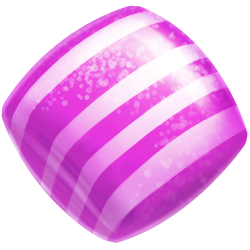
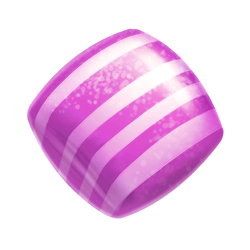
feat: refresh game assets

diff --git a/src/assets/scss/blocks/b-game-tile.scss b/src/assets/scss/blocks/b-game-tile.scss
@@ -17,6 +17,7 @@
     position: absolute;
     inset: 0;
     content: "";
+    background-image: var(--tile-overlay-background);
     background-position: center;
     background-repeat: no-repeat;
     background-size: contain;
@@ -29,13 +30,13 @@
   }
 
   &--sweets-cookie {
-    --tile-background: url("../../images/tile-sweets-cookie.png");
-    --tile-selected-background: url("../../images/tile-sweets-cookie-selected.png");
+    --tile-background: url("../../images/tile-sweets-fish.png");
+    --tile-selected-background: url("../../images/tile-sweets-fish-selected.png");
   }
 
   &--sweets-lollipop {
-    --tile-background: url("../../images/tile-sweets-lollipop.png");
-    --tile-selected-background: url("../../images/tile-sweets-lollipop-selected.png");
+    --tile-background: url("../../images/tile-sweets-rooster.png");
+    --tile-selected-background: url("../../images/tile-sweets-rooster-selected.png");
   }
 
   &--sweets-pillow {
@@ -44,13 +45,13 @@
   }
 
   &--sweets-souffle {
-    --tile-background: url("../../images/tile-sweets-souffle.png");
-    --tile-selected-background: url("../../images/tile-sweets-souffle-selected.png");
+    --tile-background: url("../../images/tile-sweets-bird.png");
+    --tile-selected-background: url("../../images/tile-sweets-bird-selected.png");
   }
 
   &--special-mug {
     --tile-background: url("../../images/tile-special-mug.png");
-    --tile-selected-background: url("../../images/tile-special-mug.png");
+    --tile-selected-background: url("../../images/tile-special-mug-selected.png");
 
     background-size: contain;
   }
@@ -64,18 +65,24 @@
 
   &--special-cookie {
     --tile-background: url("../../images/tile-special-cookie.png");
-    --tile-selected-background: url("../../images/tile-special-cookie.png");
+    --tile-selected-background: url("../../images/tile-special-cookie-selected.png");
   }
 
-  &--blocker-special-package::after {
-    background-image: url("../../images/tile-blocker-package.png");
+  &--blocker-special-package {
+    --tile-overlay-background: url("../../images/tile-blocker-package.png");
+
+    &::after {
+      inset: calc((var(--tile-size) - var(--cell-size)) / 2);
+    }
   }
 
-  &--cookie-jam-1::after {
-    background-image: url("../../images/tile-cookie-jam-1.png");
+  &--cookie-jam-1 {
+    --tile-overlay-background: url("../../images/tile-cookie-jam-1.png");
+    --tile-selected-overlay-background: url("../../images/tile-cookie-jam-1-selected.png");
   }
 
-  &--cookie-jam-2::after {
-    background-image: url("../../images/tile-cookie-jam-2.png");
+  &--cookie-jam-2 {
+    --tile-overlay-background: url("../../images/tile-cookie-jam-2.png");
+    --tile-selected-overlay-background: url("../../images/tile-cookie-jam-2-selected.png");
   }
 }

diff --git a/tests/playwright/special-tiles.spec.ts b/tests/playwright/special-tiles.spec.ts
@@ -28,24 +28,59 @@ test('new game renders special tile mechanics', async ({ page }) => {
   )).toHaveCount(1)
 })
 
-test('packaged tiles cannot be selected for a swap', async ({ page }) => {
+test('package blockers cover the whole cell and cannot be selected', async ({ page }) => {
   await seedMathRandom(page)
   await page.goto('/')
 
   const packagedTile = page.locator('.b-game-ground__tile.b-game-tile--blocker-special-package').first()
+  const cell = page.locator('.b-game-ground__cell').first()
+  const cellBox = await cell.boundingBox()
+  const packageOverlaySize = await packagedTile.evaluate((element) => {
+    const styles = getComputedStyle(element, '::after')
+
+    return {
+      width: Number.parseFloat(styles.width),
+      height: Number.parseFloat(styles.height),
+    }
+  })
+
+  if (cellBox === null) {
+    throw new Error('Expected a visible game cell')
+  }
+
+  expect(packageOverlaySize.width).toBeCloseTo(cellBox.width, 0)
+  expect(packageOverlaySize.height).toBeCloseTo(cellBox.height, 0)
 
   await packagedTile.click()
 
   await expect(packagedTile).not.toHaveClass(/b-game-ground__tile--selected/)
 })
 
-test('cookies can be selected for a swap', async ({ page }) => {
+test('mugs use highlighted assets when selected for a swap', async ({ page }) => {
   await seedMathRandom(page)
   await page.goto('/')
 
-  const cookieTile = page.locator('.b-game-ground__tile.b-game-tile--special-cookie').first()
+  const mugTile = page.locator('.b-game-ground__tile.b-game-tile--special-mug').first()
+
+  await mugTile.click()
+
+  await expect(mugTile).toHaveClass(/b-game-ground__tile--selected/)
+  await expect(mugTile).toHaveCSS('background-image', /tile-special-mug-selected/)
+})
+
+test('cookies use highlighted assets when selected for a swap', async ({ page }) => {
+  await seedMathRandom(page)
+  await page.goto('/')
+
+  const cookieTile = page.locator(
+    '.b-game-ground__tile.b-game-tile--special-cookie.b-game-tile--cookie-jam-2'
+  ).first()
 
   await cookieTile.click()
 
   await expect(cookieTile).toHaveClass(/b-game-ground__tile--selected/)
+  await expect(cookieTile).toHaveCSS('background-image', /tile-special-cookie-selected/)
+  await expect.poll(() => cookieTile.evaluate(element => (
+    getComputedStyle(element, '::after').backgroundImage
+  ))).toContain('tile-cookie-jam-2-selected')
 })

diff --git a/src/assets/scss/blocks/b-game-ground.scss b/src/assets/scss/blocks/b-game-ground.scss
@@ -59,6 +59,10 @@
 
     &--selected {
       background-image: var(--tile-selected-background);
+
+      &::after {
+        background-image: var(--tile-selected-overlay-background, var(--tile-overlay-background));
+      }
     }
   }
 
